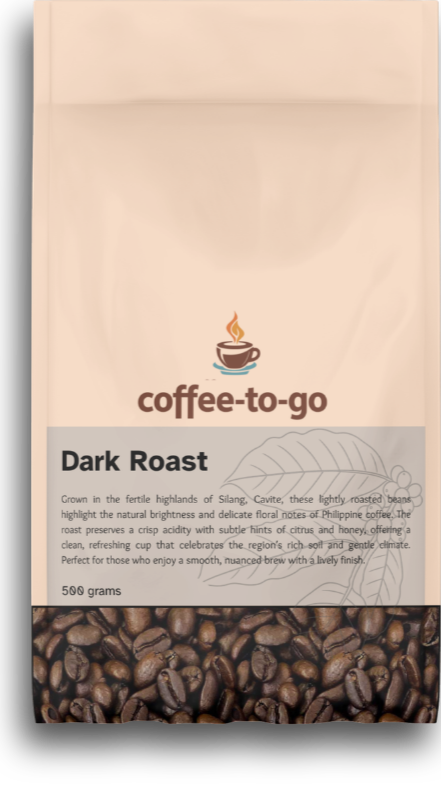
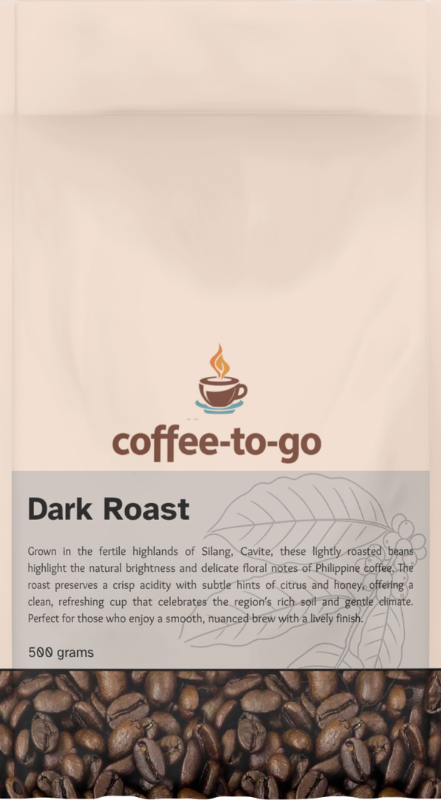
Changed subs section and carousel

diff --git a/styles.css b/styles.css
@@ -283,6 +283,11 @@ header.scrolled .navbar-button {
     flex-direction: row;
 }
 
+.Menu-images:hover{
+    filter:drop-shadow(0 0 75px rgb(240, 239, 239));
+    transition: all 0.3s ease-in-out;
+}
+
 
 .Subscription {
     /*background-color:#c3a990*/
@@ -334,7 +339,7 @@ header.scrolled .navbar-button {
     opacity: 0.8;
 }
 
-.popup {
+.menu-popup {
     display: flex;
     align-items: center;
 }
@@ -356,7 +361,7 @@ header.scrolled .navbar-button {
     justify-content: center;
 }
 
-.Menu-images,
+.Menu-images,.subs-img,
 .openModal {
     background-color: transparent;
     width: 30dvw;
@@ -369,16 +374,6 @@ header.scrolled .navbar-button {
 
 .openModal {
     cursor: pointer;
-}
-
-.openModal::after {
-    content: "";
-    display: flex;
-}
-
-.openModal:hover::after {
-    content: "Click to know more";
-    align-items: center;
 }
 
 .modal.open {
@@ -450,7 +445,13 @@ header.scrolled .navbar-button {
 
 }
 
-
+.subs-popup {
+    display: flex;
+    align-items: center;
+    justify-content: center;
+    gap: 2dvw;
+    margin-top: 20px;
+}
 
 .carousel-container {
     position: relative;
@@ -480,7 +481,7 @@ header.scrolled .navbar-button {
 .carousel-slide img {
     width: 100%;
     max-width: 300px;
-    height: 300px;
+    height: 100%;
     object-fit: cover;
     border-radius: 10px;
 }

diff --git a/index.html b/index.html
@@ -50,7 +50,7 @@
     </section>
     <section class="Menus-section">
         <h2 id="Menu-text">Menu</h2>
-        <div class="popup">
+        <div class="menu-popup">
             <button class="openModal" data-title="Americano" data-img="Media/Menu/Americano.png"
                 data-description="A bold espresso shot topped with hot water" data-price="₱99"
                 data-served="Hot/Cold">Americano
@@ -102,9 +102,20 @@
             of coffee that showcases unique flavors and aromas from around the world. With our subscription, you can
             explore new coffees, discover hidden gems, and elevate your coffee experience without leaving your home.
             Sign up today and embark on a flavorful journey with Coffee to go!</p>
-        <button class="subs-img">
-            <img src="Media/Subscription/Aficionado.png">
-        </button>
+        <div class="subs-popup">
+            <button class="openModal">
+                <img src="Media/Subscription/Aficionado.png" alt="Aficionado" class="subs-img">
+            </button>
+            <button class="openModal">
+                <img src="Media/Subscription/casual.png" alt="Casual" class="subs-img">
+            </button>
+            <button class="openModal">
+                <img src="Media/Subscription/barista.png" alt="Barista" class="subs-img">
+            </button>
+            <button class="openModal">
+                <img src="Media/Subscription/beginner.png" alt="Beginner" class="subs-img">
+            </button>
+        </div>
     </section>
     <section class="Shop" id="Shop">
         <h2 id="Shop-text">Beans that will never give you up</h2>

diff --git a/design-effects.js b/design-effects.js
@@ -26,7 +26,7 @@ window.addEventListener('load', () => {
     });
 });
 
-//popup
+//popup menu
 const openBtn = document.querySelectorAll(".openModal");
 const closeBtn = document.getElementById("closeModal");
 const modal = document.getElementById("modal");